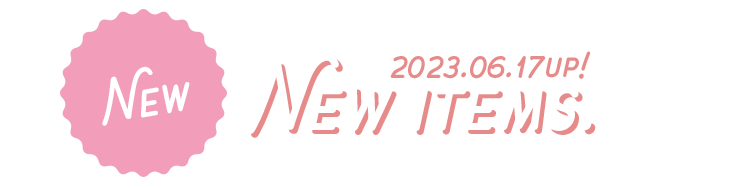
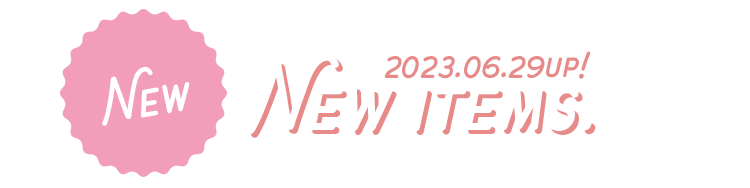
sk bd up

Changed region(s): [[0.4907, 0.2926, 0.736, 0.4255]]

diff --git a/archives/index.html b/archives/index.html
@@ -36,8 +36,9 @@
       <form>
         <select name="menu">
           <option>こちらから選択してください</option>
-          <option value="#ru2023bd">ラウール誕生祭2022 [New]</option>
-          <option value="#kj2023bd">向井康二誕生祭2022 [New]</option>
+          <option value="#sk2023bd">佐久間大介誕生祭2023 [New]</option>
+          <option value="#ru2023bd">ラウール誕生祭2022</option>
+          <option value="#kj2023bd">向井康二誕生祭2022</option>
           <option value="#iw2023bd">岩本照誕生祭2023</option>
           <option value="#fk2023bd">深澤辰哉誕生祭2023</option>
           <option value="#dt2023bd">宮舘涼太誕生祭2023</option>
@@ -74,8 +75,18 @@
     <div class="section">
 
       <div class="area_item">
+        <a id="sk2023bd" class="anchor"></a>
+        <p class="new">佐久間大介誕生祭2023<img src="/i_and_h_mkn/img/new_title.png" alt="new"></p>
+        <div class="area_archives">
+          <a href="#" class="link_hidden"><img src="#" class="img_hidden"></a>
+          <a href="/i_and_h_mkn/img/archives/20230705_ic.png" onclick="ga('send','event','sozai','click','image', 1);"><img src="/i_and_h_mkn/img/archives/20230705_ic.png" alt="佐久間大介誕生祭2023 アイコン"></a>
+          <a href="/i_and_h_mkn/img/archives/20230705_hd.png" onclick="ga('send','event','sozai','click','image', 1);"><img src="/i_and_h_mkn/img/archives/20230705_hd.png" alt="佐久間大介誕生祭2023 ヘッダー"></a>
+        </div>
+      </div>
+
+      <div class="area_item">
         <a id="ru2023bd" class="anchor"></a>
-        <p class="new">ラウール誕生祭2023<img src="/i_and_h_mkn/img/new_title.png" alt="new"></p>
+        <p>ラウール誕生祭2023</p>
         <div class="area_archives">
           <a href="#" class="link_hidden"><img src="#" class="img_hidden"></a>
           <a href="/i_and_h_mkn/img/archives/20230627_ic.png" onclick="ga('send','event','sozai','click','image', 1);"><img src="/i_and_h_mkn/img/archives/20230627_ic.png" alt="ラウール誕生祭2023 アイコン"></a>
@@ -85,7 +96,7 @@
 
       <div class="area_item">
         <a id="kj2023bd" class="anchor"></a>
-        <p class="new">向井康二誕生祭2023<img src="/i_and_h_mkn/img/new_title.png" alt="new"></p>
+        <p>向井康二誕生祭2023</p>
         <div class="area_archives">
           <a href="#" class="link_hidden"><img src="#" class="img_hidden"></a>
           <a href="/i_and_h_mkn/img/archives/20230621_ic.png" onclick="ga('send','event','sozai','click','image', 1);"><img src="/i_and_h_mkn/img/archives/20230621_ic.png" alt="向井康二誕生祭2023 アイコン"></a>

diff --git a/index.html b/index.html
@@ -196,10 +196,10 @@
           <div><img src="/i_and_h_mkn/img/thumb_iw.png" loading="lazy" alt="岩本担向けの素材はこちら"></div>
         </a>
         <a class="ab" href="/i_and_h_mkn/ab/">
-          <div class="new"><img src="/i_and_h_mkn/img/thumb_ab.png" loading="lazy" alt="阿部担向けの素材はこちら"></div>
+          <div><img src="/i_and_h_mkn/img/thumb_ab.png" loading="lazy" alt="阿部担向けの素材はこちら"></div>
         </a>
         <a class="kj" href="/i_and_h_mkn/kj/">
-          <div class="new"><img src="/i_and_h_mkn/img/thumb_kj.png" loading="lazy" alt="向井担向けの素材はこちら"></div>
+          <div><img src="/i_and_h_mkn/img/thumb_kj.png" loading="lazy" alt="向井担向けの素材はこちら"></div>
         </a>
         <a class="mg" href="/i_and_h_mkn/mg/">
           <div><img src="/i_and_h_mkn/img/thumb_mg.png" loading="lazy" alt="目黒担向けの素材はこちら"></div>
